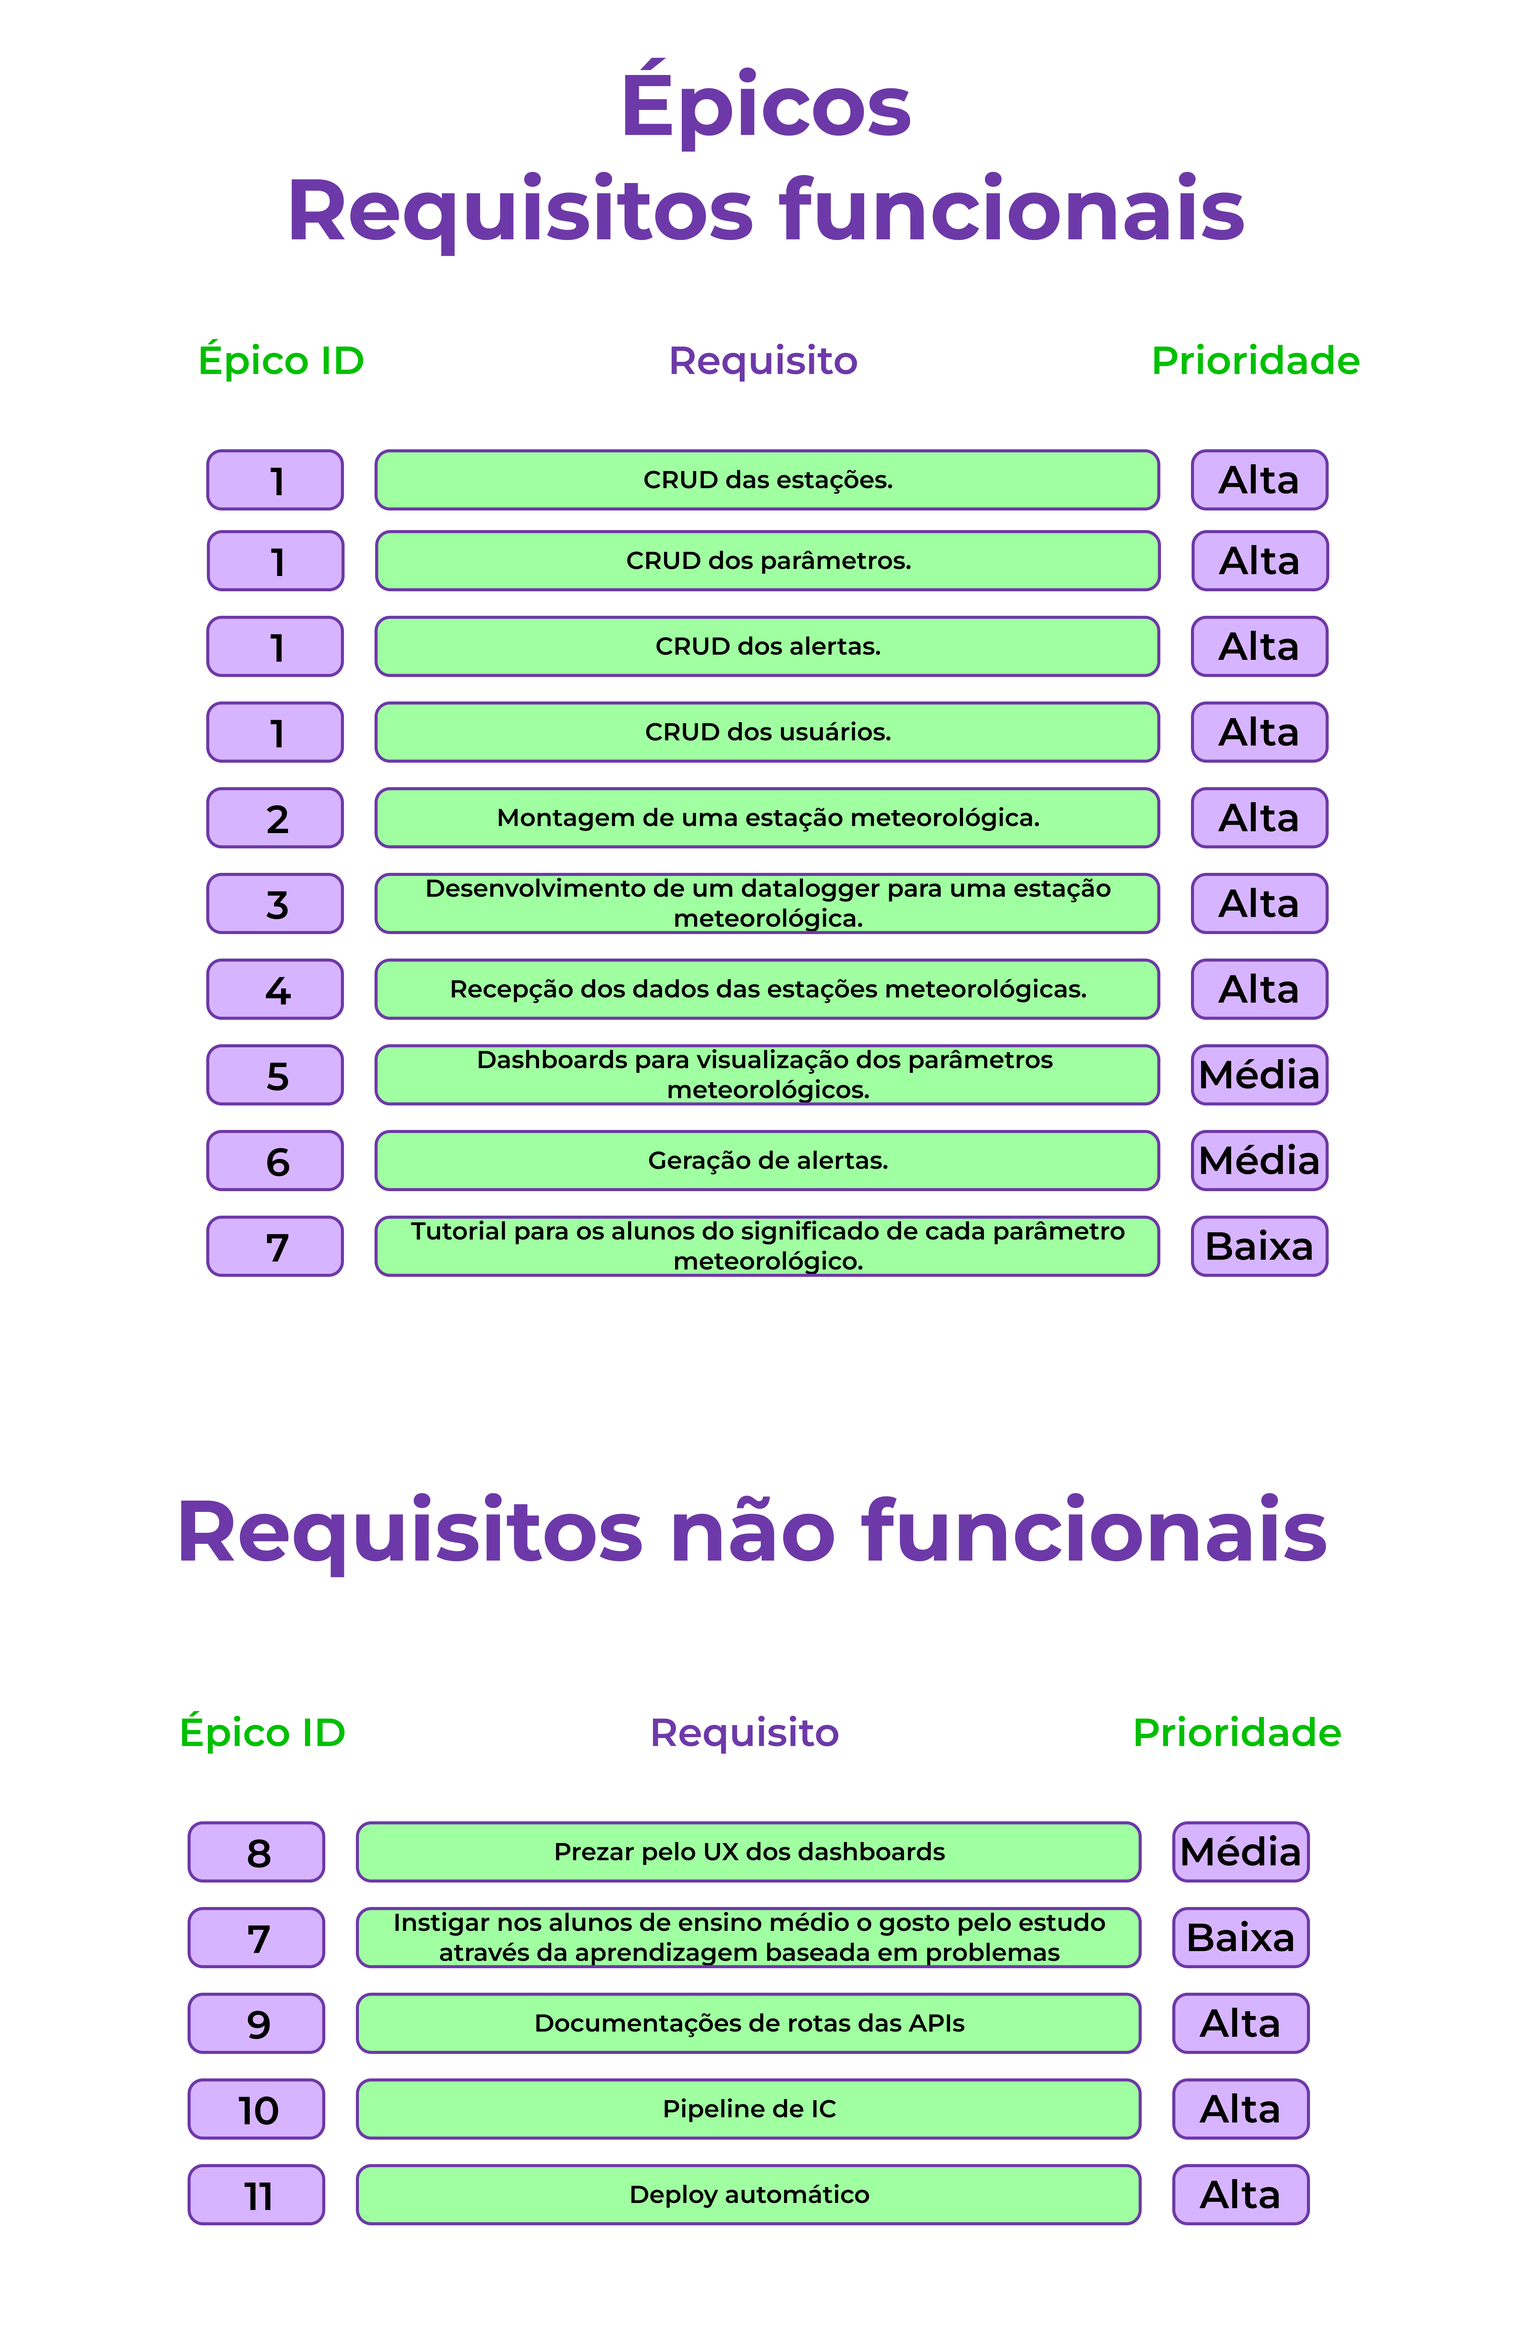
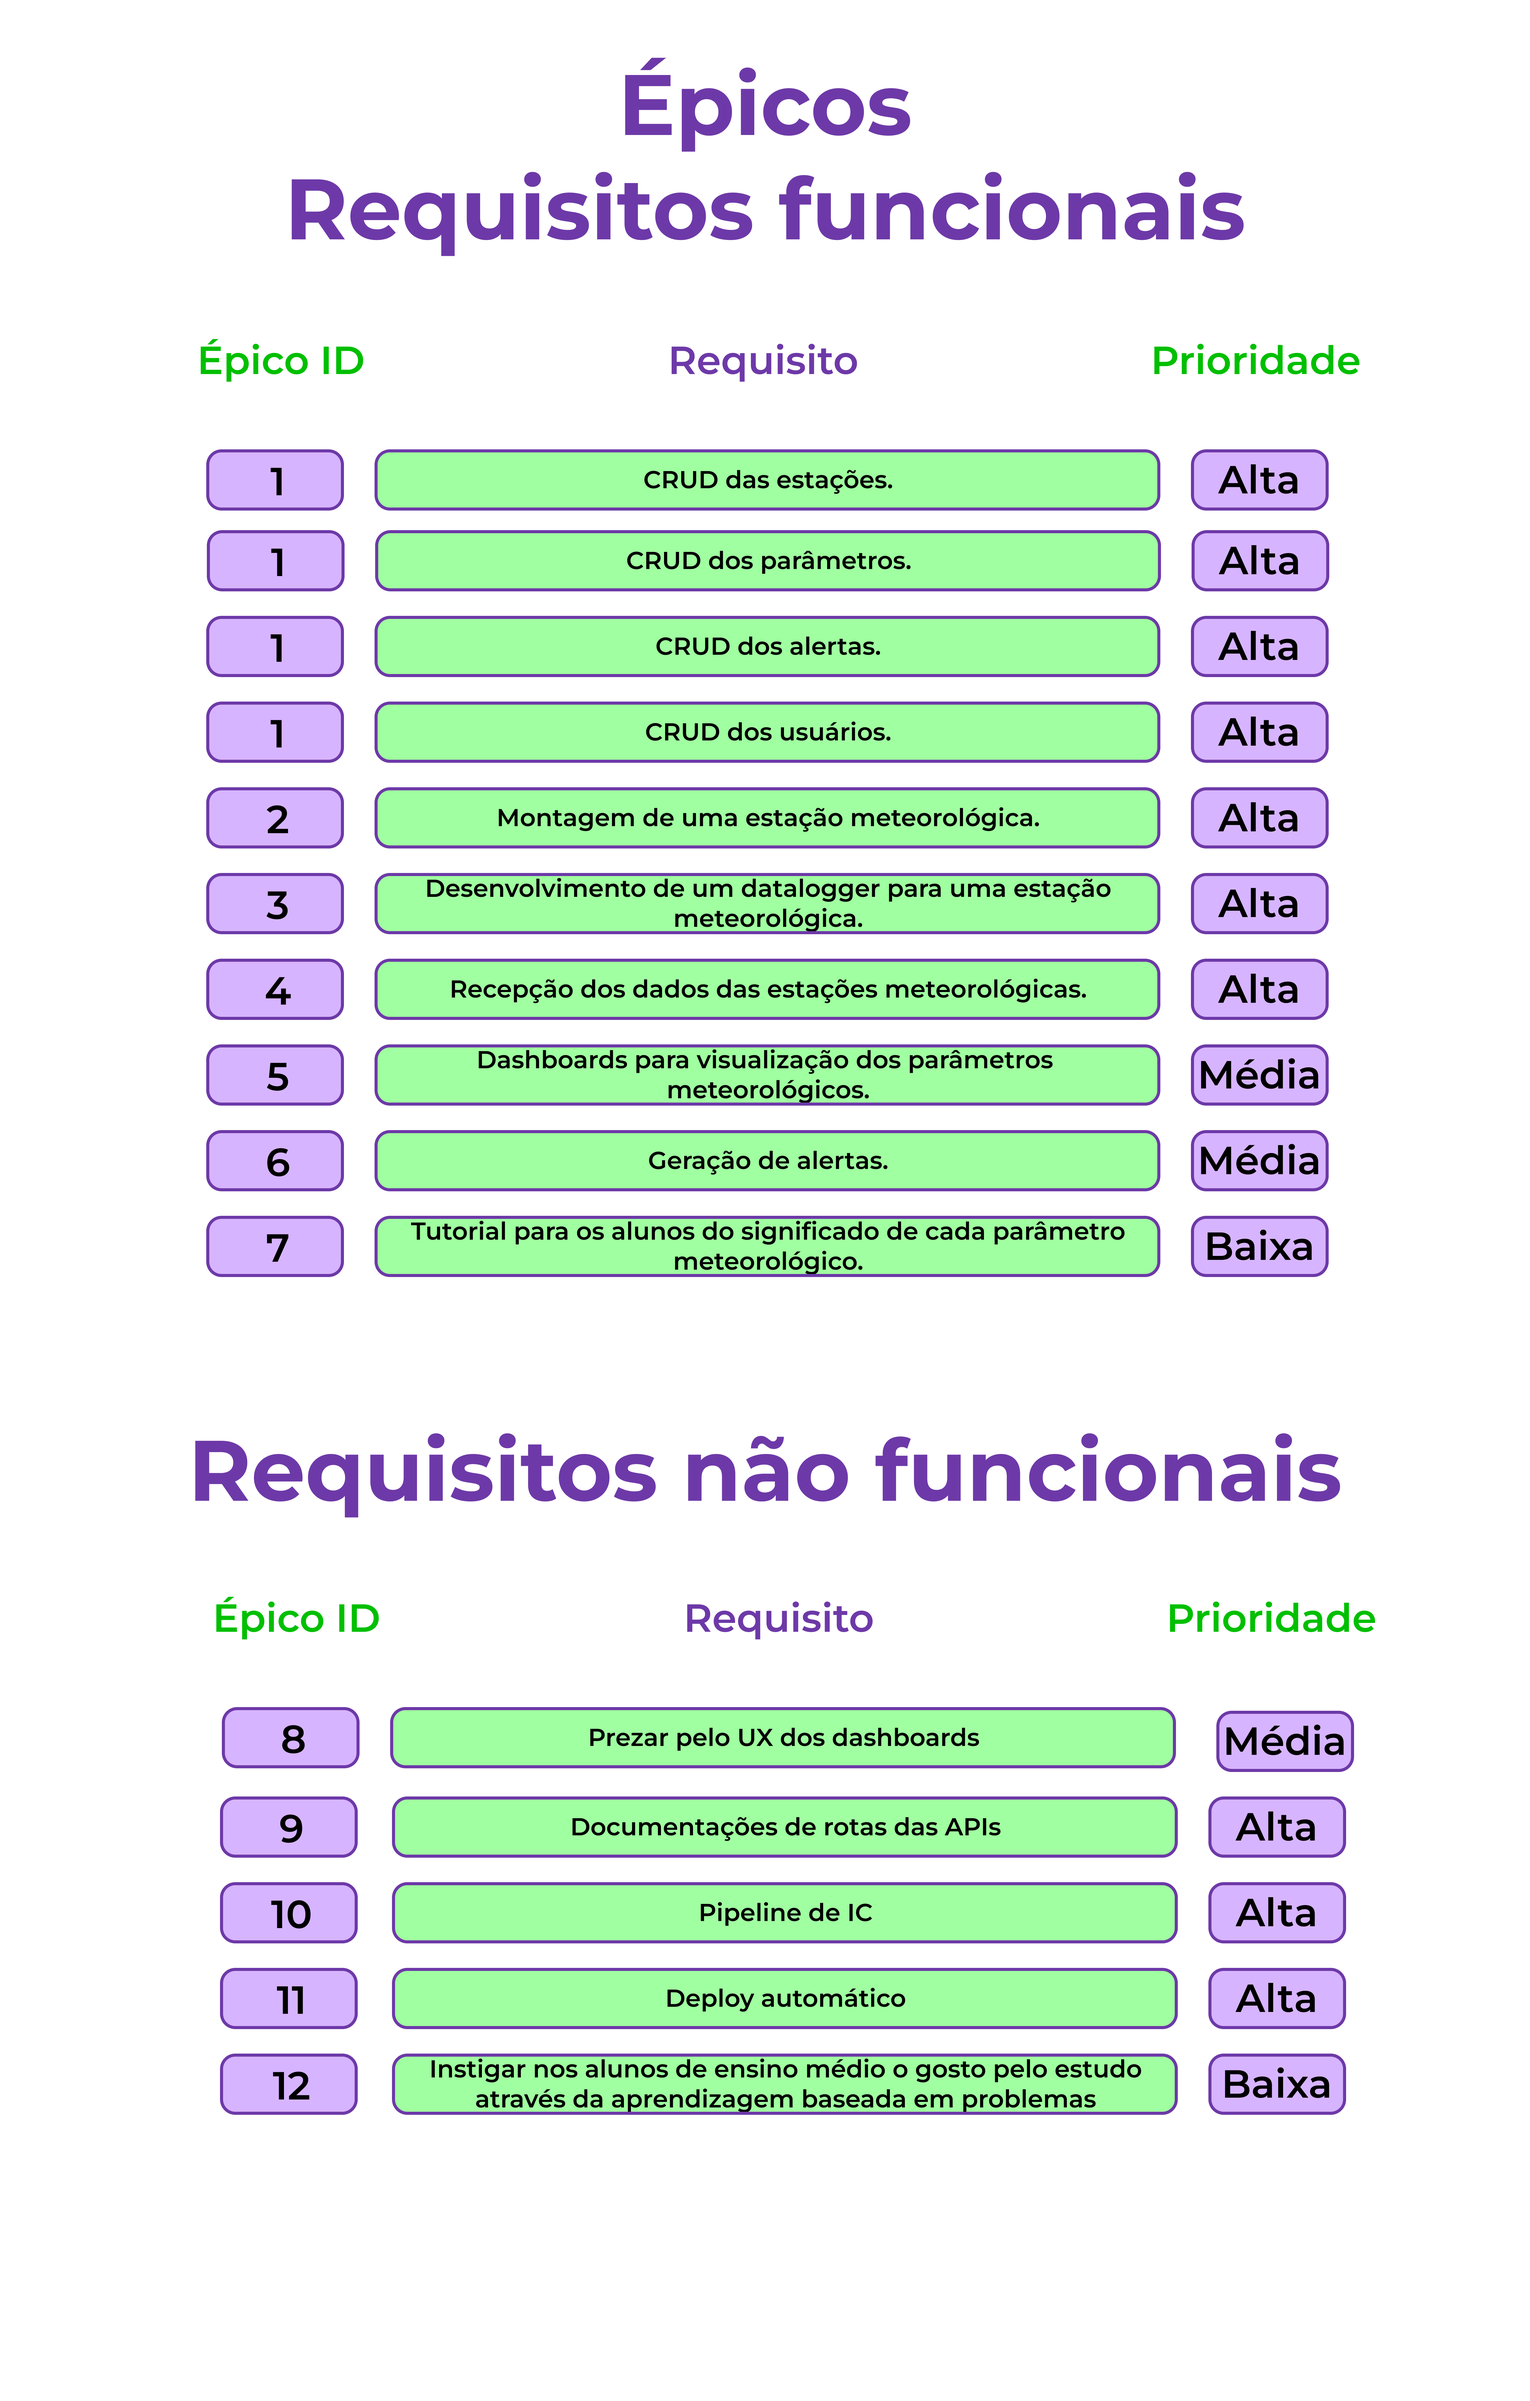
✨feat: Adicionando dados da sprint 2 no README.md

diff --git a/README.md b/README.md
@@ -28,12 +28,21 @@ Projeto desenvolvido para a API (Aprendizagem por Projeto Integrado) do 4° seme
 <img src="https://img.shields.io/badge/CSS-6D39A8?style=for-the-badge&logo=css3&logoColor=white" alt="CSS">
 <img src="https://img.shields.io/badge/React-6D39A8?style=for-the-badge&logo=react&logoColor=white" alt="React">
 <img src="https://img.shields.io/badge/MySQL-6D39A8?style=for-the-badge&logo=mysql&logoColor=white" alt="MySQL">
+<img src="https://img.shields.io/badge/Firebase-6D39A8?style=for-the-badge&logo=firebase&logoColor=white" alt="Firebase">
+<img src="https://img.shields.io/badge/Python-6D39A8?style=for-the-badge&logo=python&logoColor=white" alt="Python">
+<img src="https://img.shields.io/badge/Flask-6D39A8?style=for-the-badge&logo=flask&logoColor=white" alt="Flask">
 </div>
 
 <br>
 
 <h2> 🎯 MVP </h2>
-<img src="./docs/mvp-sprint1.gif" alt="MVP" width=700>
+<h2> Sistema para o usuário Administrador </h2>
+<img src="./docs/mvp-sprint2-adm.gif" alt="MVP" width=700>
+
+<br>
+
+<h2> Sistema para o usuário Visualizador </h2>
+<img src="./docs/mvp-sprint2-leitor.gif" alt="MVP" width=700>
 
 <br>
 
@@ -52,32 +61,32 @@ Projeto desenvolvido para a API (Aprendizagem por Projeto Integrado) do 4° seme
     </tr>
     <tr align="center">
         <td> 1 </td>
-        <td> 09/09 </td>
-        <td> 29/09 </td>
+        <td> 09/09/2024 </td>
+        <td> 29/09/2024 </td>
         <td> 🚧 </td>
         <td> <a href="https://github.com/Equipe-CodeLand/API-2024.2/wiki/API%E2%80%902024.2-%E2%80%90-Sprint-1">Wiki</a> </td>
         <td> Concluída </td>
     </tr>
      <tr align="center">
         <td> 2 </td>
-        <td> 30/09 </td>
-        <td> 20/10 </td>
+        <td> 30/09/2024 </td>
+        <td> 20/10/2024 </td>
         <td> 🚧 </td>
-        <td> -  </td>
+        <td> <a href="https://github.com/Equipe-CodeLand/API-2024.2/wiki/API%E2%80%902024.2-%E2%80%90-Sprint-2">Wiki</a> </td>
         <td> Em Andamento </td>
     </tr>
      <tr align="center">
         <td> 3 </td>
-        <td> 21/10 </td>
-        <td> 10/11 </td>
+        <td> 21/10/2024 </td>
+        <td> 10/11/2024 </td>
         <td> 🚧 </td>
         <td> - </td>
         <td> Não iniciada </td>
     </tr>
      <tr align="center">
         <td> 4 </td>
-        <td> 11/11 </td>
-        <td> 01/12 </td>
+        <td> 11/11/2024 </td>
+        <td> 01/12/2024 </td>
         <td> 🚧 </td>
         <td> - </td>
         <td> Não iniciada </td>
@@ -89,7 +98,7 @@ Projeto desenvolvido para a API (Aprendizagem por Projeto Integrado) do 4° seme
 <span id="backlog">
     
 <h2> Backlog Total </h2>
-<img src="./docs/BacklogSprint1.png" width=700 />
+<img src="./docs/BacklogSprint2.png" width=700 />
 <br>
 
 <h3> Épicos (Requisitos) </h3>
@@ -105,7 +114,7 @@ Projeto desenvolvido para a API (Aprendizagem por Projeto Integrado) do 4° seme
 <br>
 
 <h2> Fluxo de Trabalho </h2>
-<img src="./docs/Gitflow.png"/>
+<img src="./docs/Gitflow.png" width=700 />
 <br>
 
 <span id="equipe">
